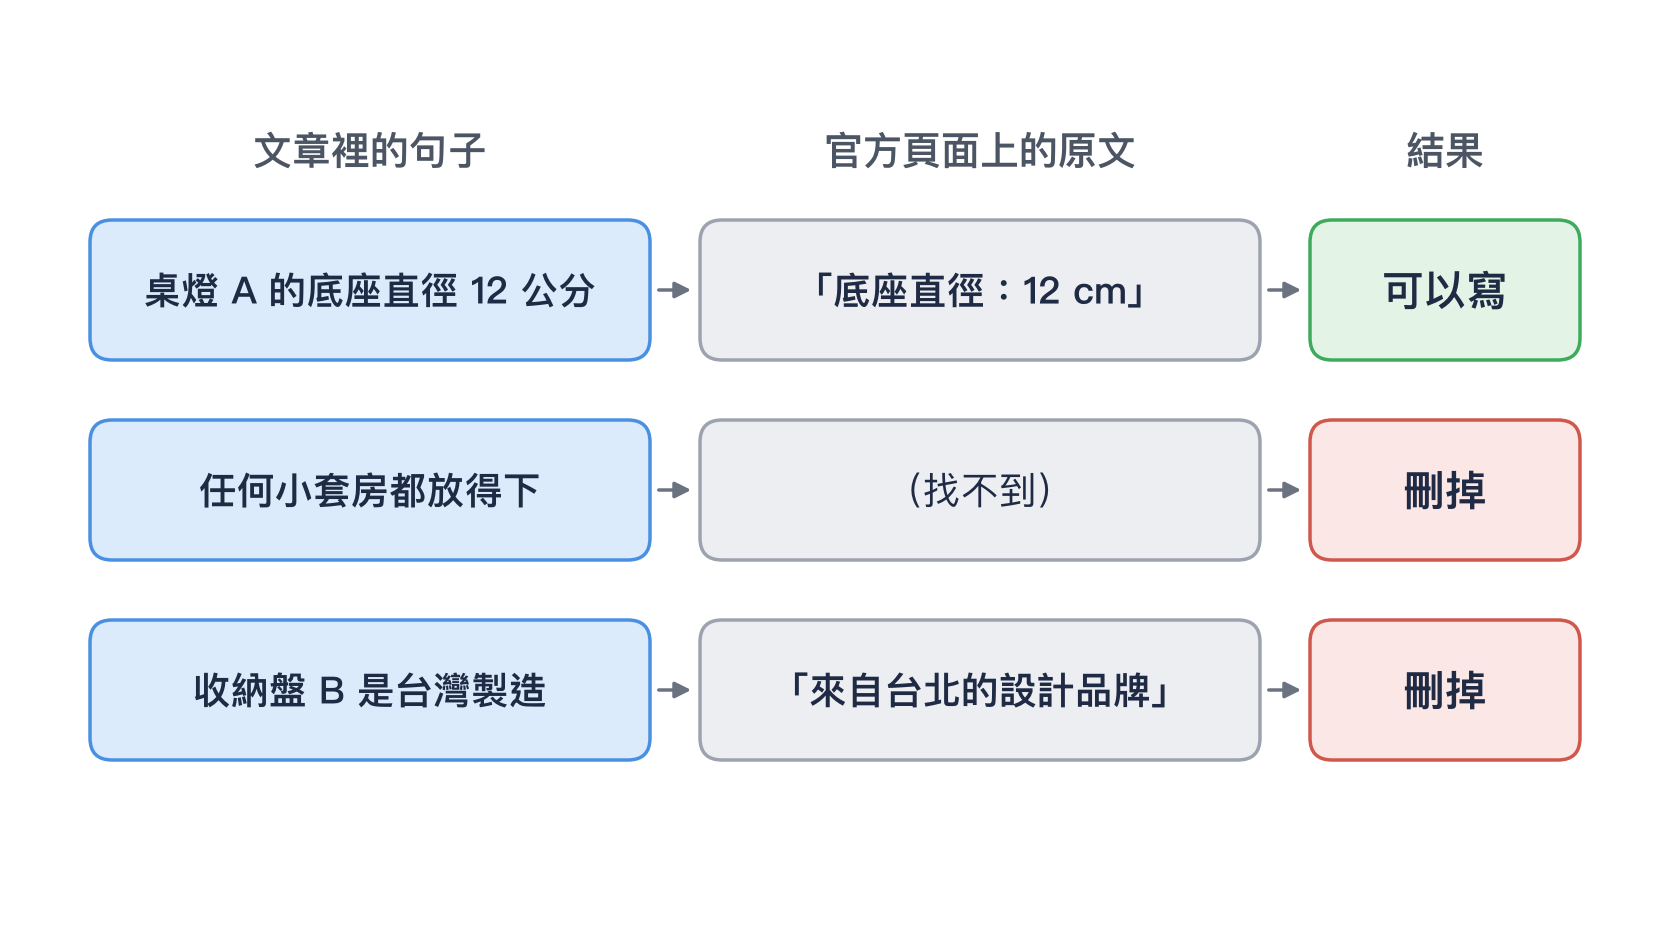
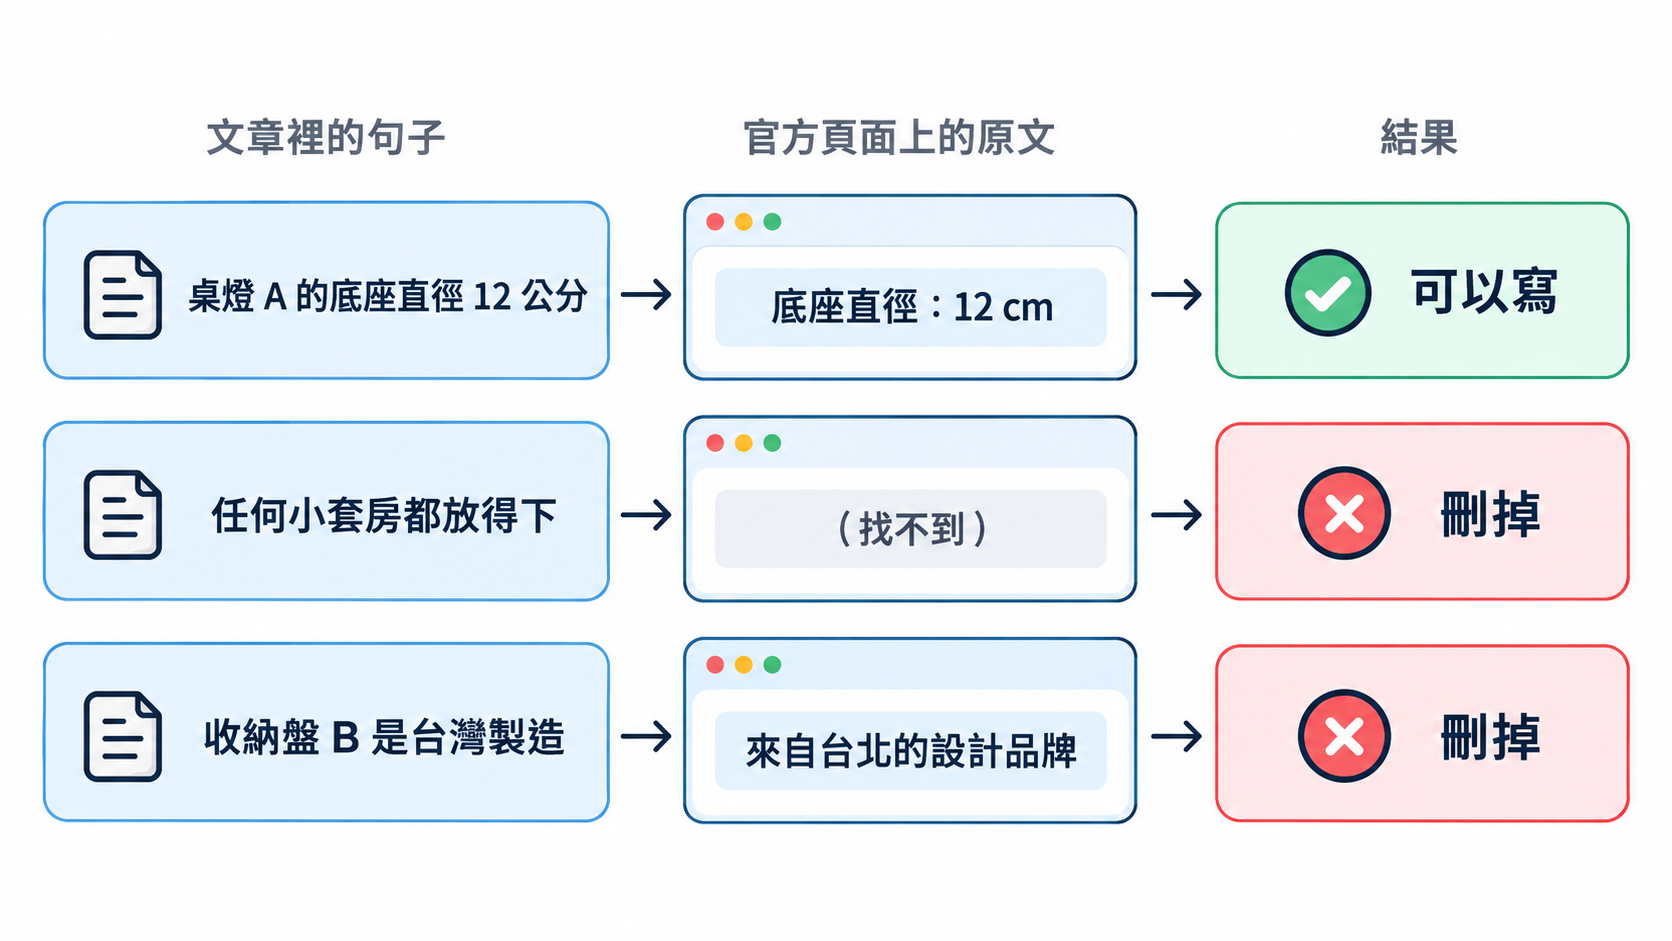
content(ironman): refresh Day 26 diagrams (#62)

Changed region(s): [[0.0, 0.1233, 0.9952, 0.8937], [0.7464, 0.8629, 0.9641, 0.8937], [0.8086, 0.1233, 0.9019, 0.1849]]

diff --git a/src/content/blog/zh/day-26-editorial-agent.md b/src/content/blog/zh/day-26-editorial-agent.md
@@ -46,6 +46,8 @@ notion: https://app.notion.com/p/patrickytc/Day-26-Editorial-Agent-3ed0d2d793cf8
 
 這三段流程 AI 都能自己跑完，但內容合不合理、可不可信，最後還是要由人確認。所以 Editorial Agent 交回來的是一份 .mdx 草稿。MDX 是在 Markdown 裡加上網頁元件的格式，我的網站本來就用它寫文章，放進網站後就能直接預覽文字、商品卡和版面的實際樣子，再直接在上面修改、加上備註。
 
+![](/images/ironman/day-26-mdx-preview.png)
+
 ## 怎麼避免 AI 亂編商品資訊？
 
 Editorial Agent 用的商品資料，來自選物網站本身的商品庫，也就是系列中段介紹過的那條商品 Curation Agentic Workflow 整理出來的結果。不過寫文章時，AI 還是可能憑空編出資訊，也就是常說的幻覺；商品資料也可能已經過時，甚至商品頁早就不在了。所以寫進文章的每個事實，都要再回到官方頁面查一次：文章裡的每一句，都要在官方頁面上找得到對應的原文，找不到就刪掉。
